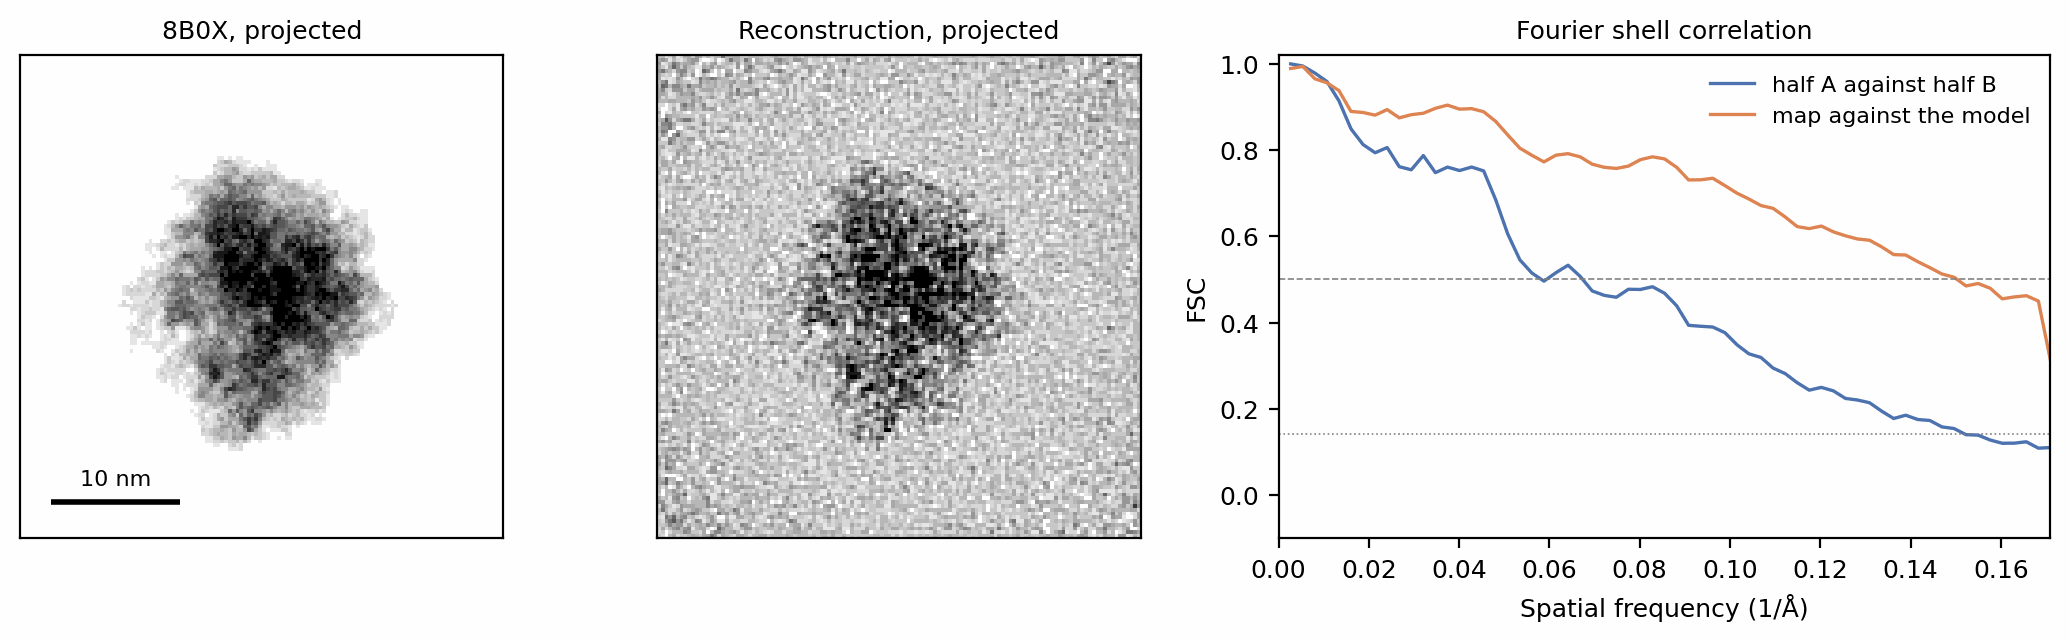
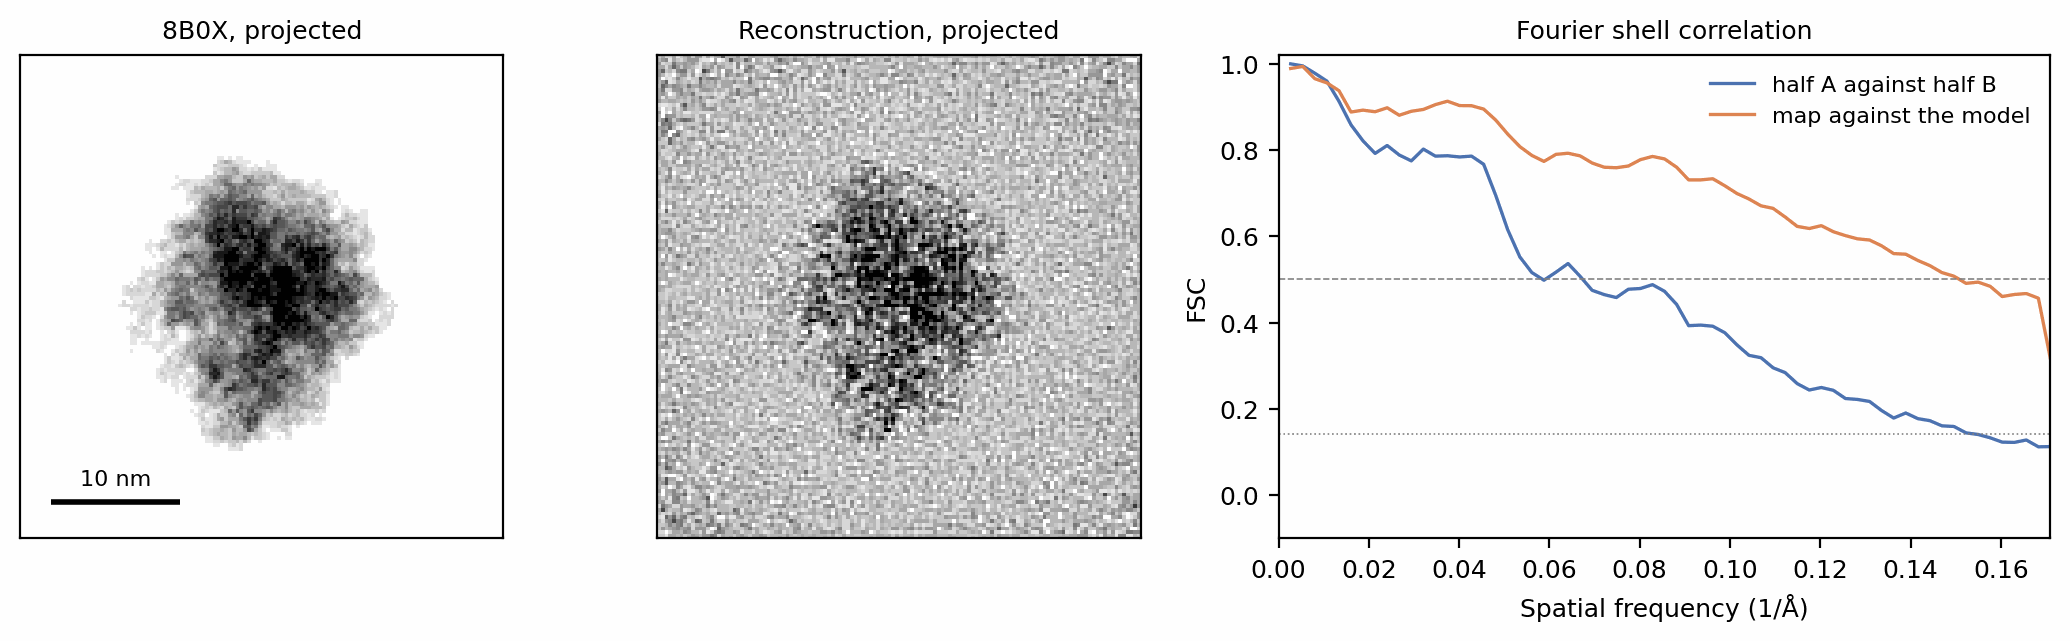
Rerun the reconstruction guide under the converged solver
Claude-Session: https://claude.ai/code/session_01MpJVc9vq6cA2M2WUEzqi1g

diff --git a/docs/user-guide/reconstruction.md b/docs/user-guide/reconstruction.md
@@ -280,8 +280,8 @@ model as `--fsc_ref`:
 ///caption
 The model the stack was simulated from and the average of the two
 half-maps, each projected along z, with the FSC curves up to the 5.85 Å
-Nyquist frequency. After five epochs on 500 particles per half, the
-half-maps correlate to 0.143 (Rosenthal & Henderson 2003) at 6.6 Å, the
+Nyquist frequency. After five epochs on 500 particles per half and the
+converged solve, the half-maps correlate to 0.143 (Rosenthal & Henderson 2003) at 6.5 Å, the
 `resolution_gold_standard` that `job.json` records, and the average of the
 halves correlates with the model to 0.5 at 6.6 Å.
 ///
